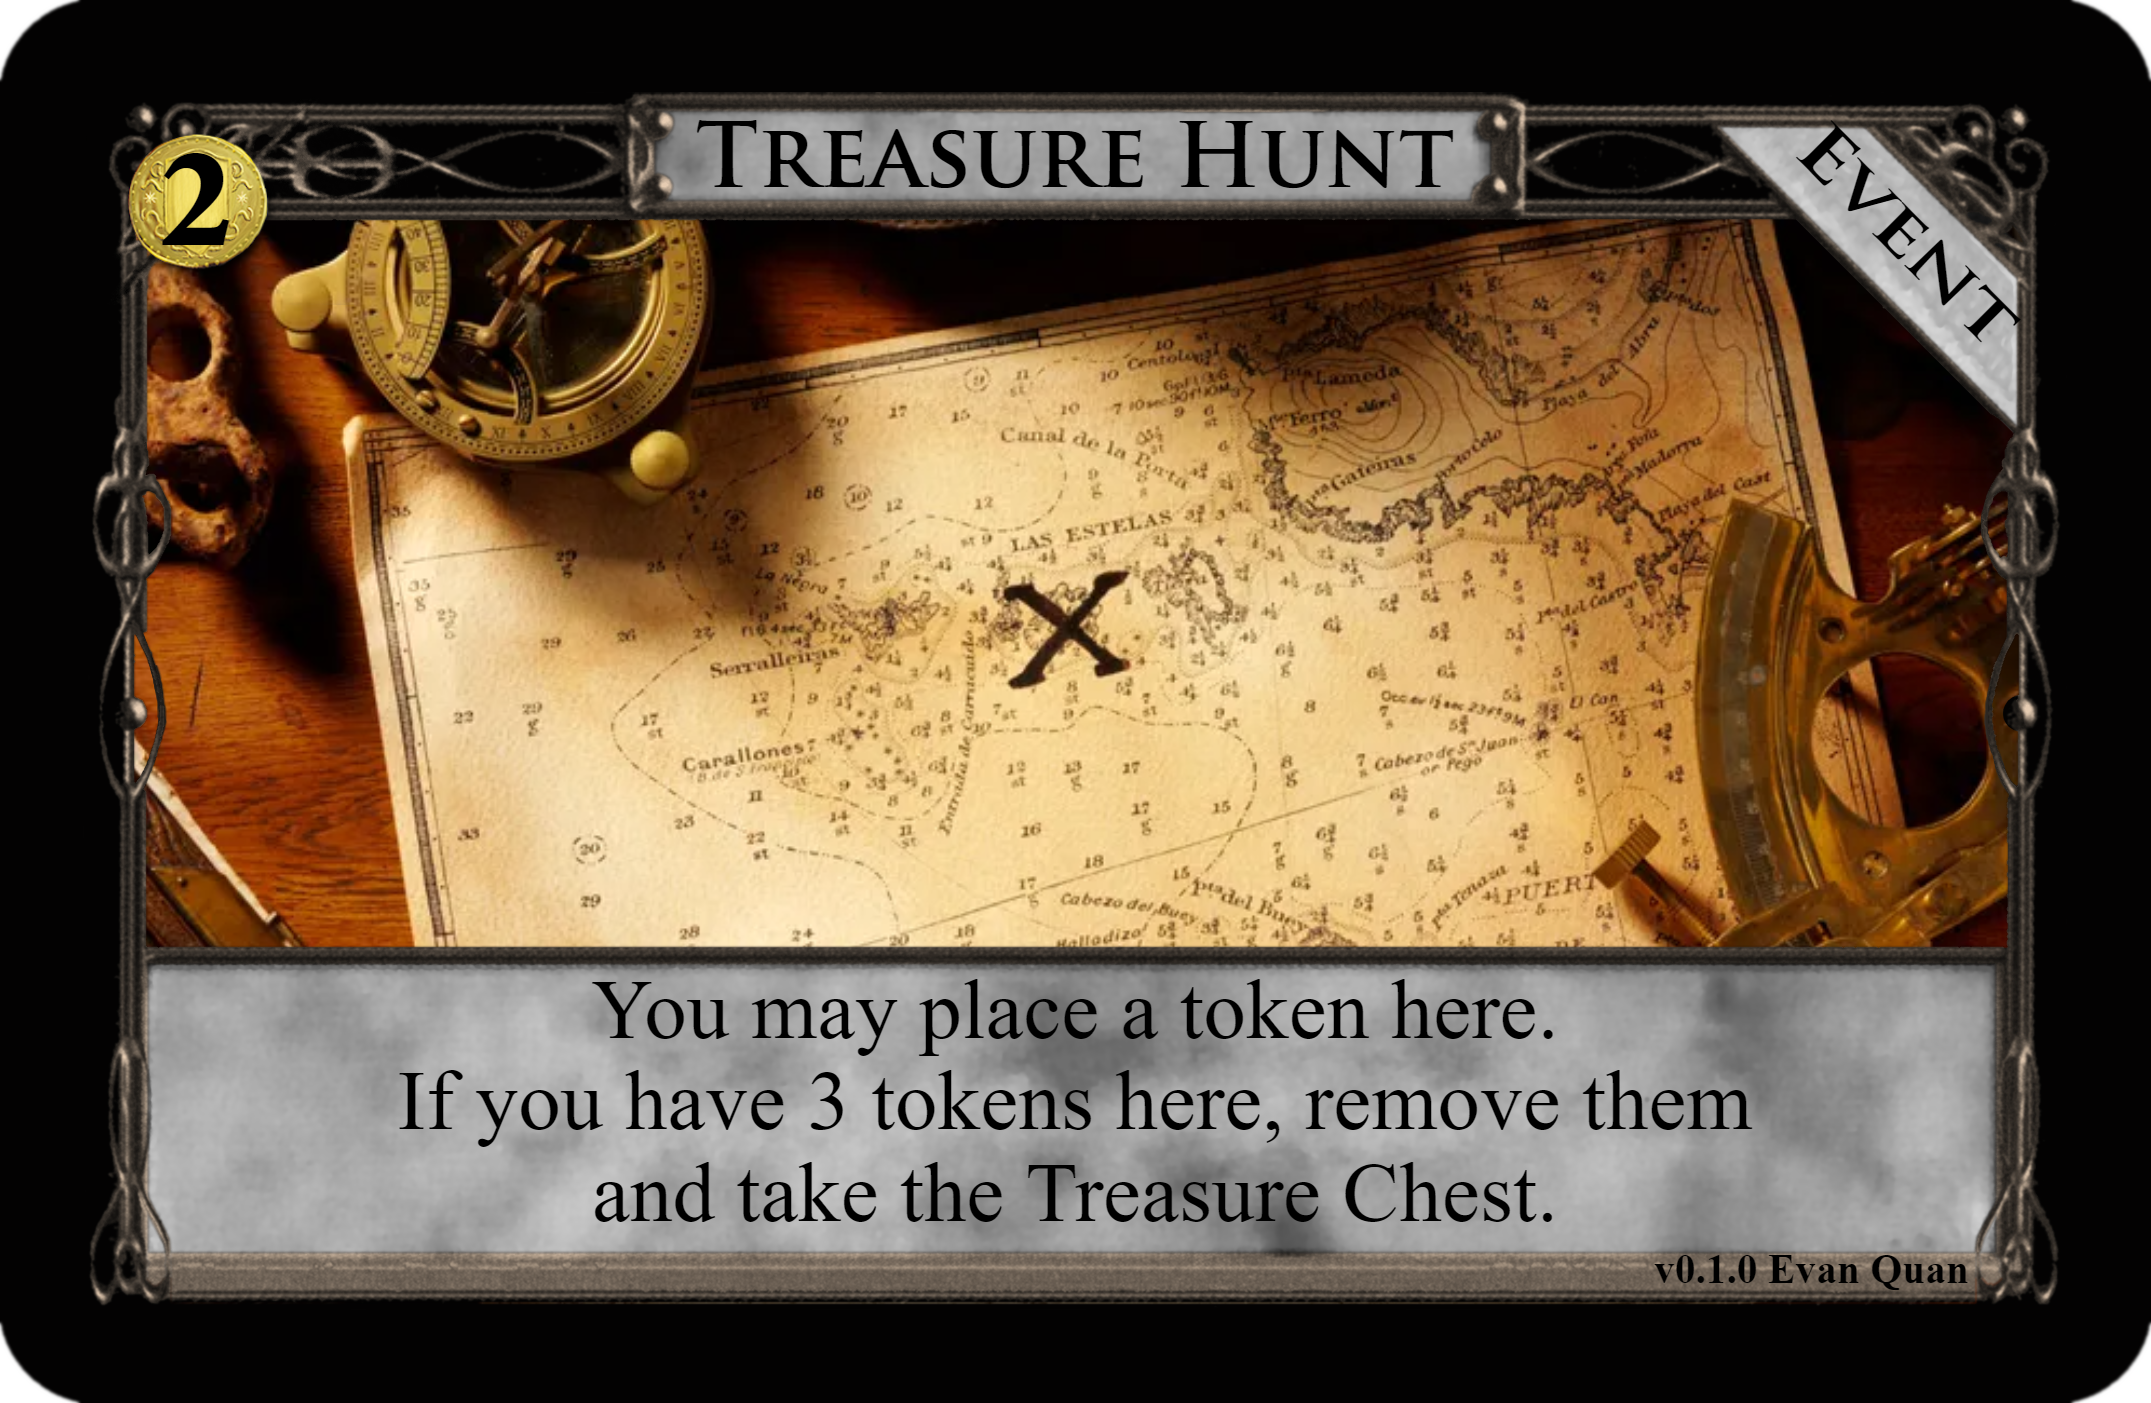
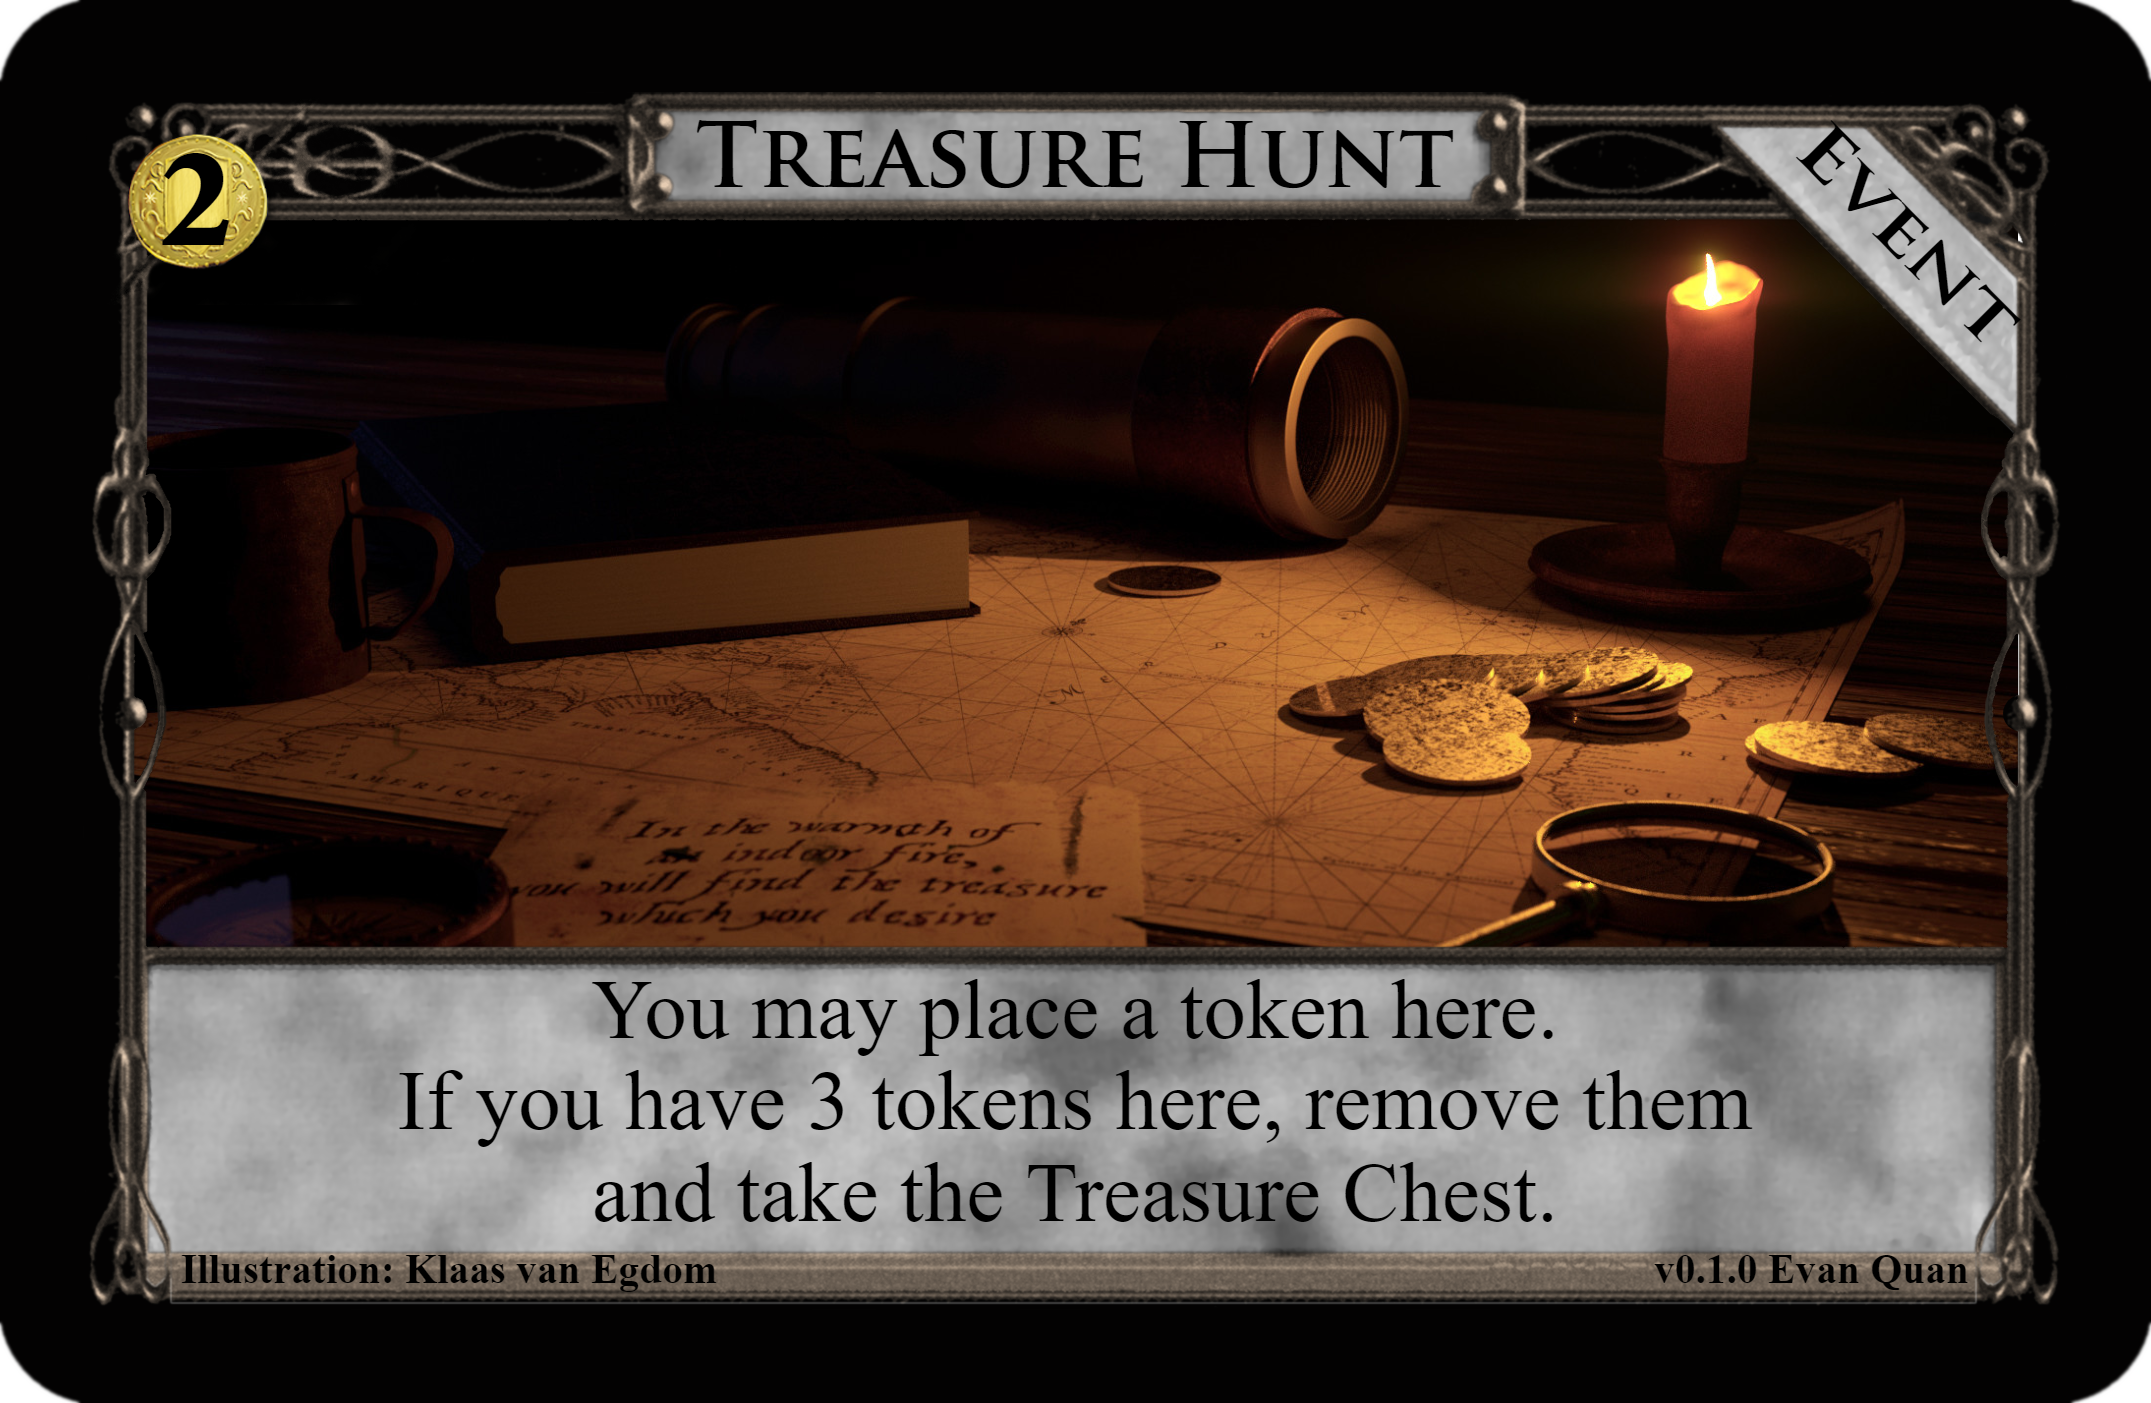
Update art and credits

diff --git a/Event/TreasureHunt.md b/Event/TreasureHunt.md
@@ -6,6 +6,8 @@
 
 [Card][^Card]
 
+[Illustrator][^Illustrator]
+
 [Illustration][^Illustration]
 
 ---
@@ -17,5 +19,6 @@
 ![v0.1.0][^v0.1.0]
 
 [^v0.1.0]: /Event/Images/Treasure_Hunt_v0.1.0.png
-[^Card]: https://shardofhonor.github.io/dominion-card-generator/?title=Treasure%20Hunt&description=You%20may%20place%20a%20token%20here.%0AIf%20you%20have%203%20tokens%20here%2C%20remove%20them%0Aand%20take%20the%20Treasure%20Chest.&type=Event&credit=&creator=v0.1.0%20Evan%20Quan&price=%242&preview=&type2=&color2split=1&boldkeys=&picture-x=-0.35&picture-y=0.26&picture-zoom=1.3&picture=https%3A%2F%2Fcdn.radiofrance.fr%2Fs3%2Fcruiser-production%2F2018%2F12%2F08be1a02-84bc-492c-978c-4c68b4d88893%2F1136_gettyimages-182216809.webp&expansion=&custom-icon=&color0=0&color1=0&size=1
-[^Illustration]: https://cdn.radiofrance.fr/s3/cruiser-production/2018/12/08be1a02-84bc-492c-978c-4c68b4d88893/1136_gettyimages-182216809.webp
+[^Card]: https://shardofhonor.github.io/dominion-card-generator/?title=Treasure%20Hunt&description=You%20may%20place%20a%20token%20here.%0AIf%20you%20have%203%20tokens%20here%2C%20remove%20them%0Aand%20take%20the%20Treasure%20Chest.&type=Event&credit=Illustration%3A%20Klaas%20van%20Egdom&creator=v0.1.0%20Evan%20Quan&price=%242&preview=&type2=&color2split=1&boldkeys=&picture-x=0&picture-y=0.47&picture-zoom=1&picture=https%3A%2F%2Fcdnb.artstation.com%2Fp%2Fassets%2Fimages%2Fimages%2F002%2F058%2F995%2Flarge%2Fklaas-van-egdom-pirates-cabin.jpg%3F1456682197&expansion=&custom-icon=&color0=0&color1=0&size=1
+[^Illustrator]: https://www.artstation.com/klaasisbaas
+[^Illustration]: https://www.artstation.com/artwork/rOQl6
